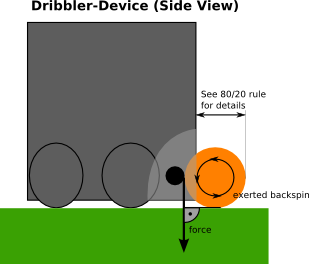
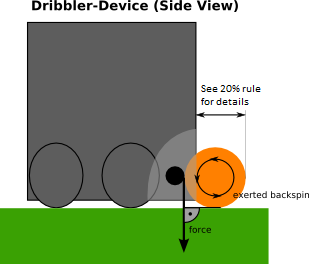
Changed wording of 20% rule for consistency

Changed region(s): [[0.6408, 0.303, 0.8738, 0.4242]]

diff --git a/fouls-and-misconduct.tex b/fouls-and-misconduct.tex
@@ -108,7 +108,7 @@ This limitation applies as well to all dribbling and kicking devices, even if su
 \begin{figure}[ht] % ht = here / t = top / b = bottom
 	\centering
 	\includegraphics[width=1.0\columnwidth]{img/dribblers_above_view.png}
-	\caption{The 80/20 ball covering/holding rule}
+	\caption{The \removed{80/}20\added{\%} ball covering/holding rule}
 	\label{fig:20-rule}
 \end{figure}
 
